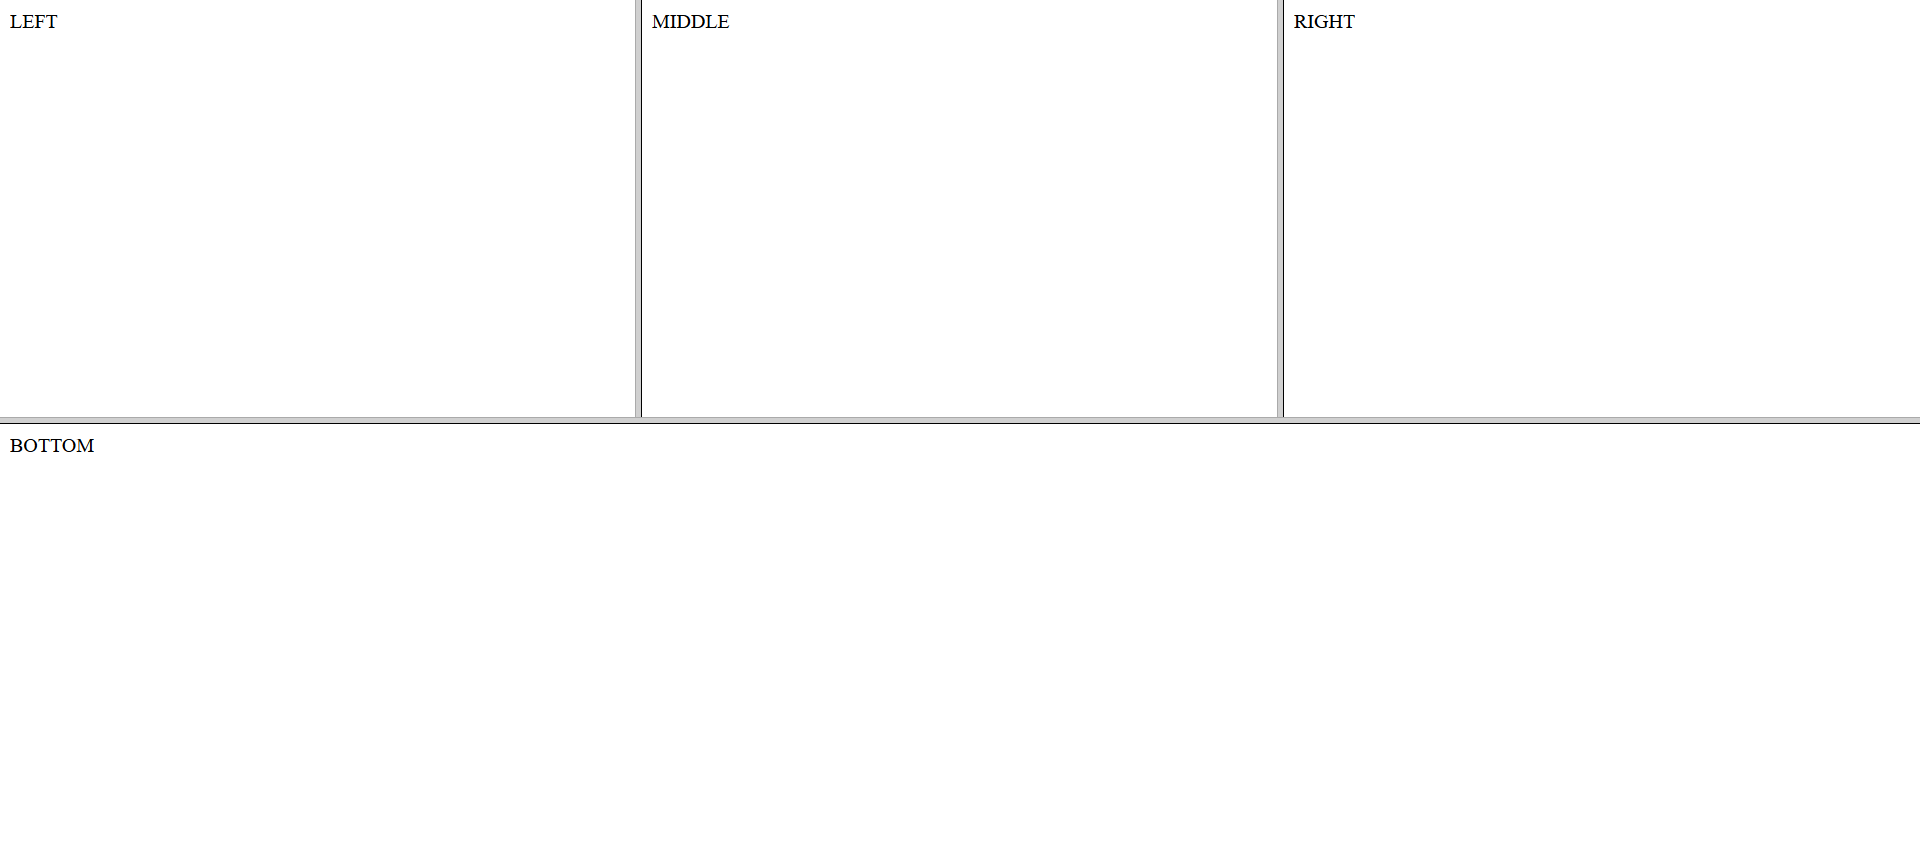
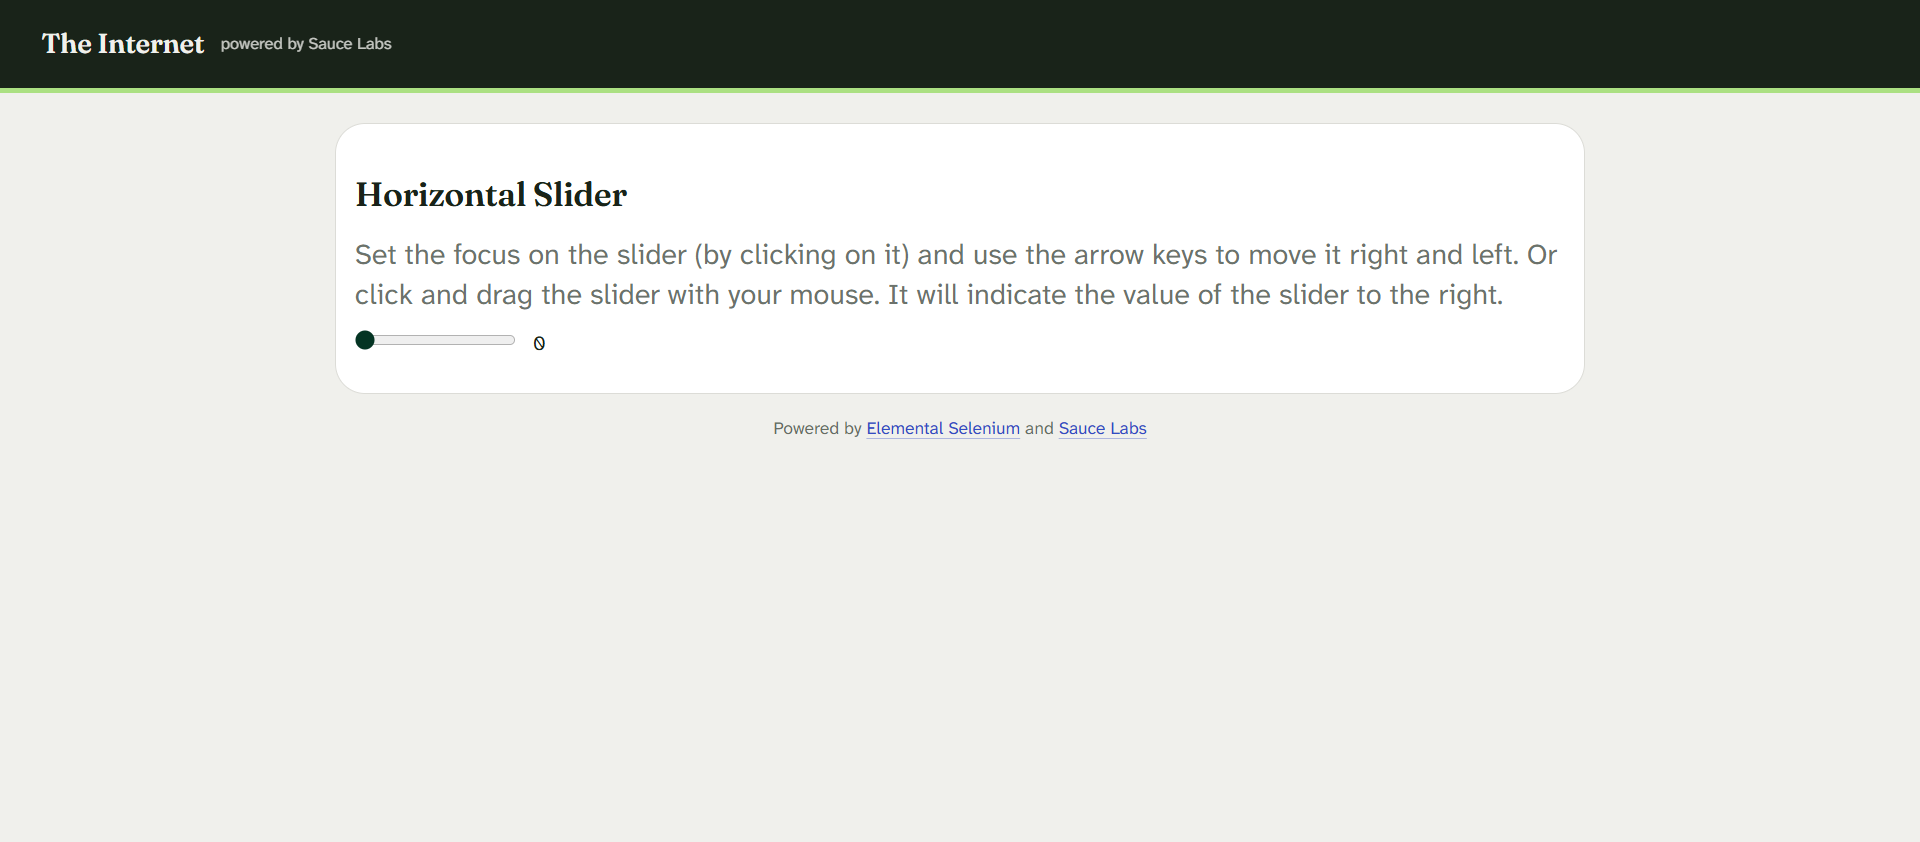
changed screenshot name

Changed region(s): [[0.0, 0.0, 1.0, 0.5558], [0.1875, 0.4014, 0.2188, 0.4323]]

diff --git a/src/test/java/tests/BaseTests.java b/src/test/java/tests/BaseTests.java
@@ -30,7 +30,7 @@ public class BaseTests {
         driver.manage().window().maximize();
         driver.get("https://the-internet.herokuapp.com/");
     }
-    @AfterClass
+    @AfterMethod
     public void tearDown(){
         driver.quit();
     }
@@ -41,7 +41,7 @@ public class BaseTests {
         var camera = (TakesScreenshot)driver;
         File screenshot = camera.getScreenshotAs(OutputType.FILE);
         try {
-            Files.move(screenshot,new File("C:\\Users\\abdul\\IdeaProjects\\TestProject\\resources\\screenshots\\test.png"));
+            Files.move(screenshot,new File("C:\\Users\\abdul\\IdeaProjects\\TestProject\\resources\\screenshots\\" + result.getMethod().getMethodName() + ".png"));
         } catch (IOException e) {
             e.printStackTrace();
         }
